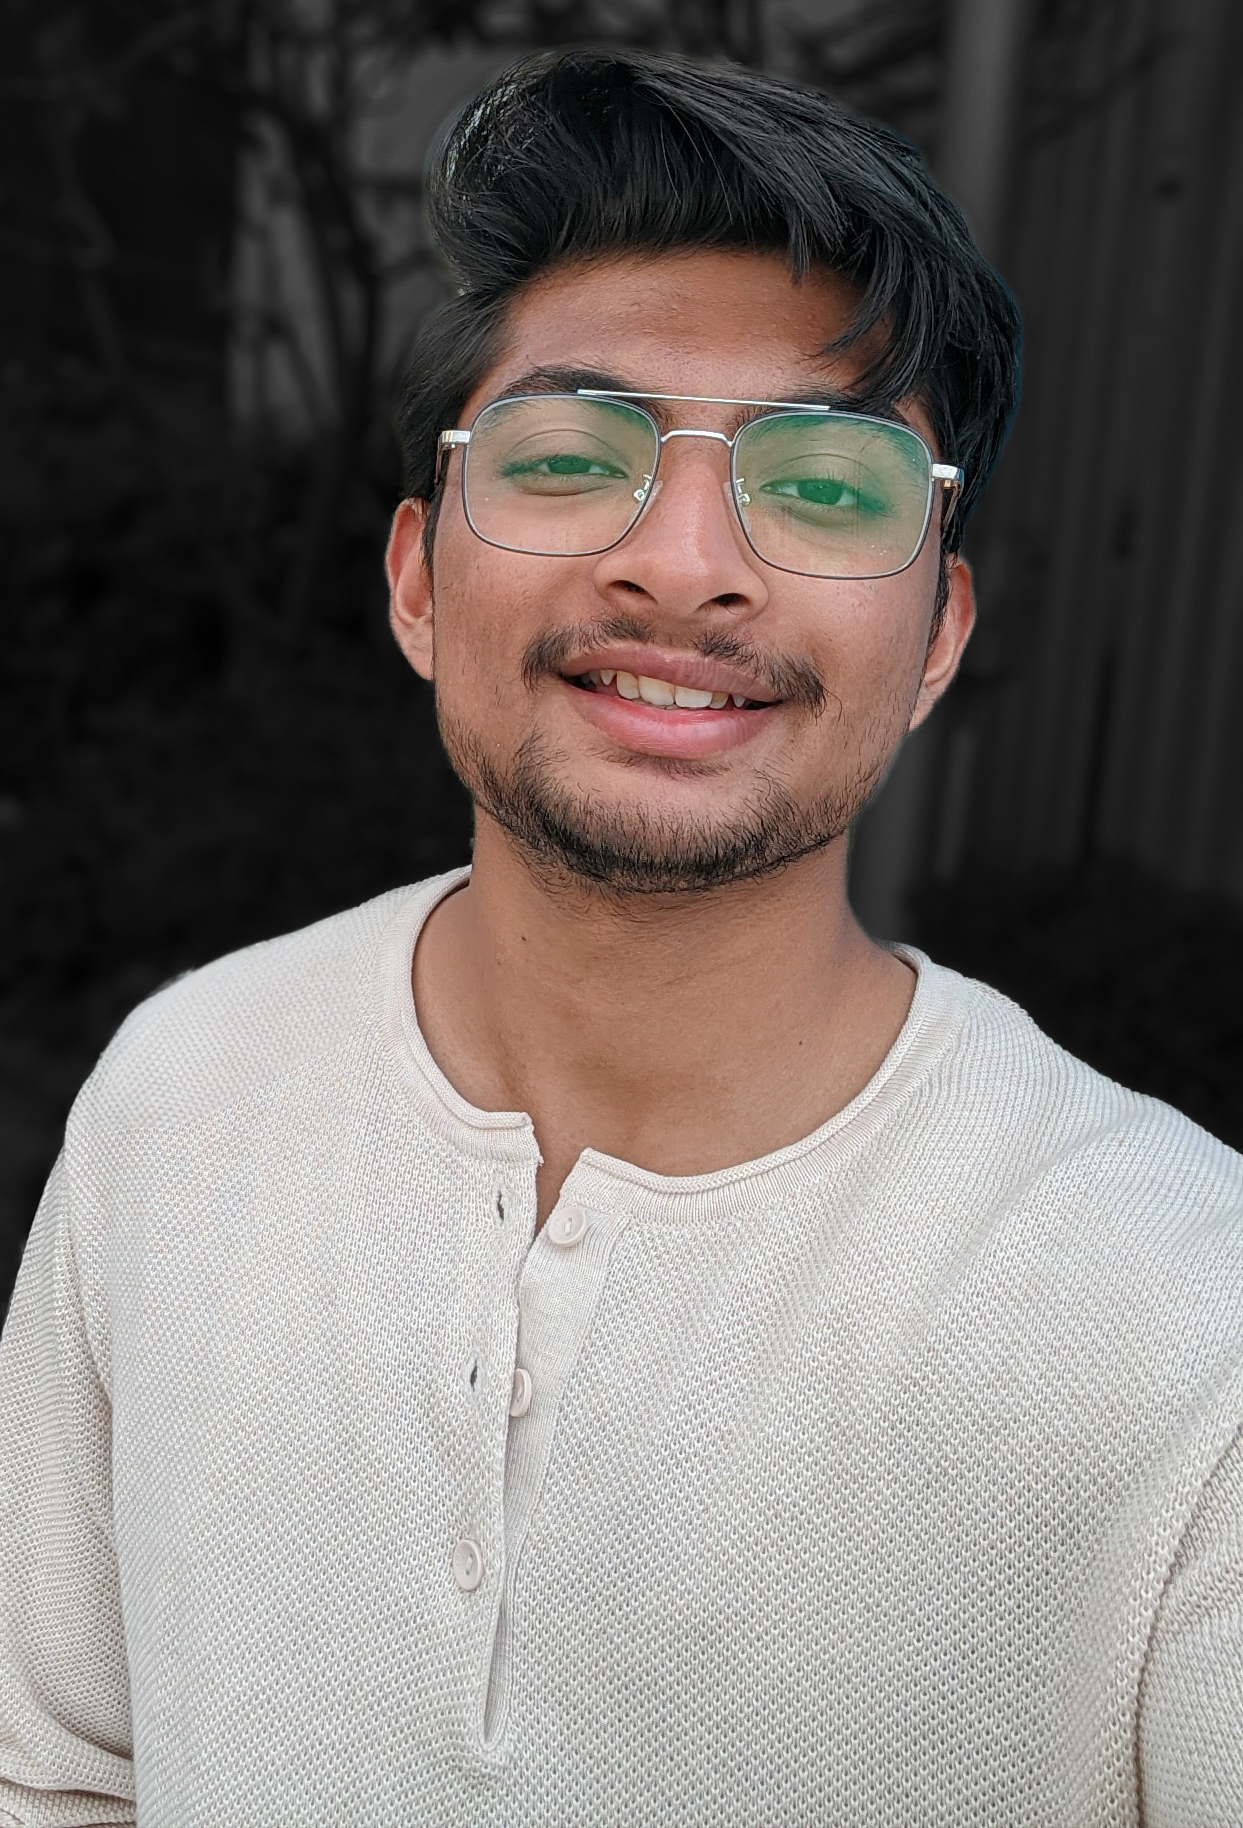
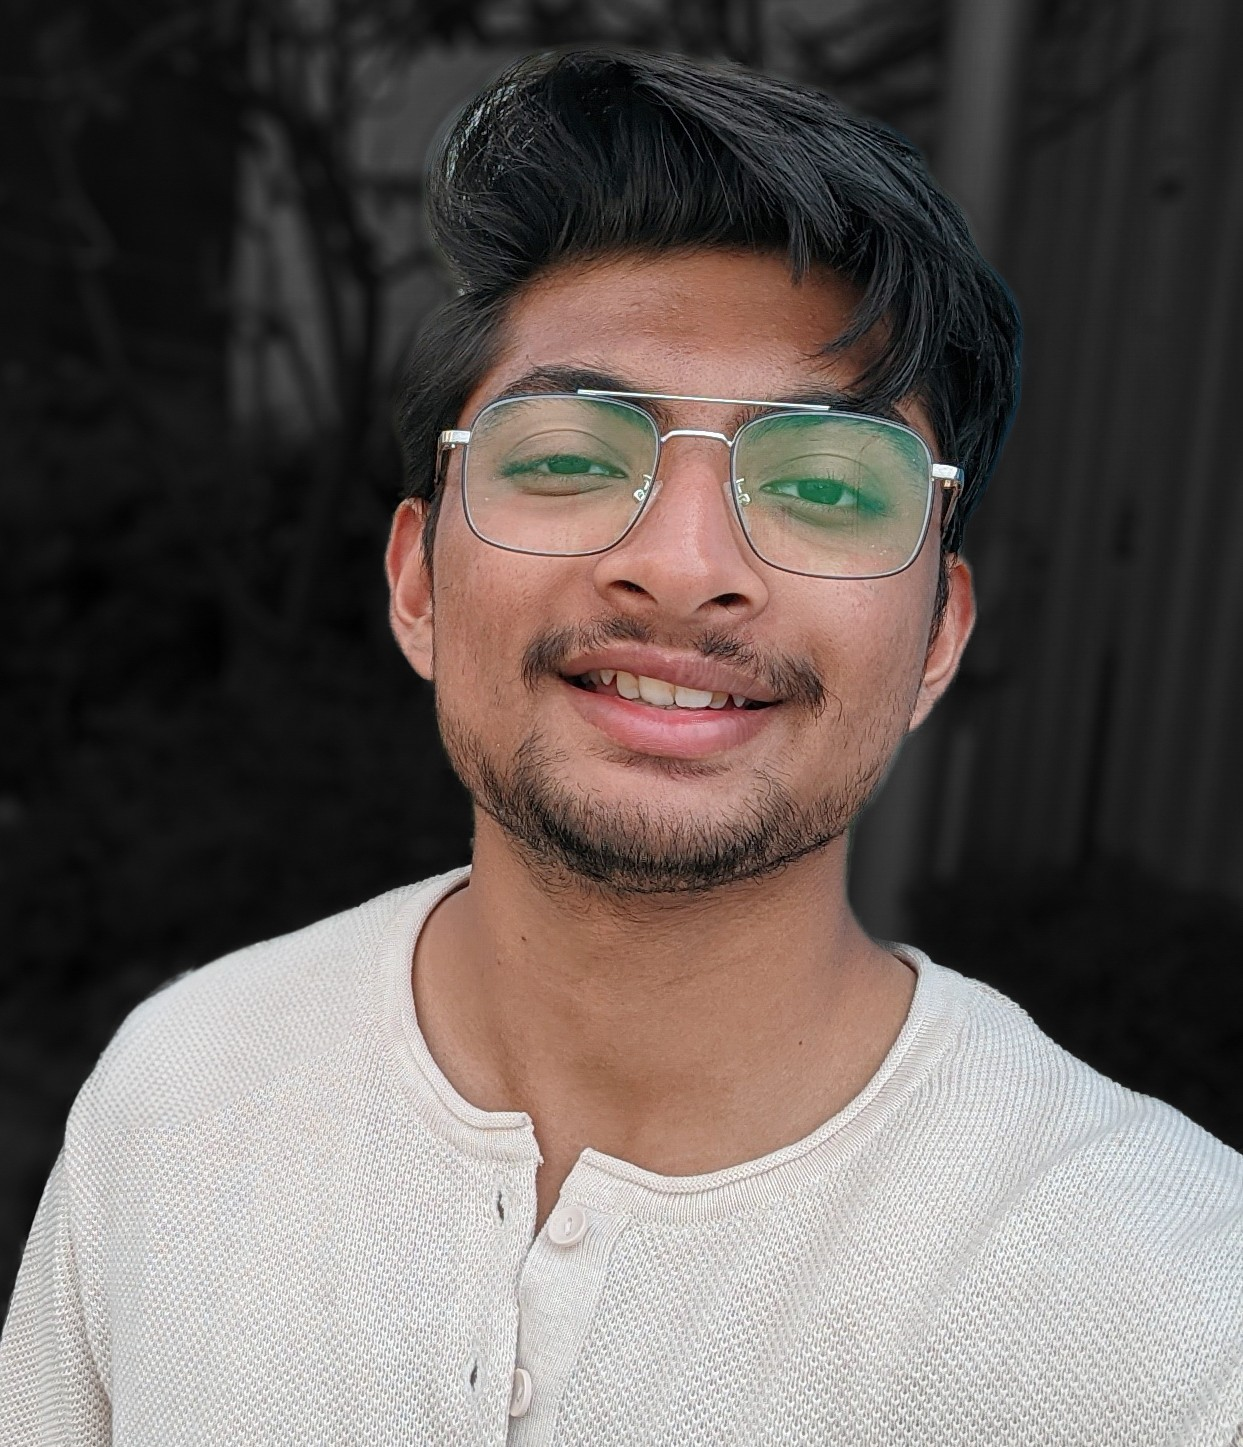
move this image little bit down (_for element img_)

diff --git a/src/components/hero.tsx b/src/components/hero.tsx
@@ -7,8 +7,8 @@ export default function Hero() {
     <section id="about" className="pt-32 pb-24 sm:pt-40 sm:pb-32 md:pt-48 md:pb-40">
       <div className="container mx-auto">
         <div className="grid items-center grid-cols-1 gap-12 md:grid-cols-2">
-          <div className="flex justify-center md:order-2 md:justify-end image-wrapper-3d">
-            <div className="relative w-64 h-64 sm:w-80 sm:h-80">
+          <div className="flex justify-center md:order-2 md:justify-end">
+            <div className="relative w-64 h-64 sm:w-80 sm:h-80 mt-8 md:mt-0">
               <div className="absolute inset-0 border-4 rounded-full border-primary/50 shadow-lg accent-glow"></div>
               <Image
                 src="/pp.jpg"
